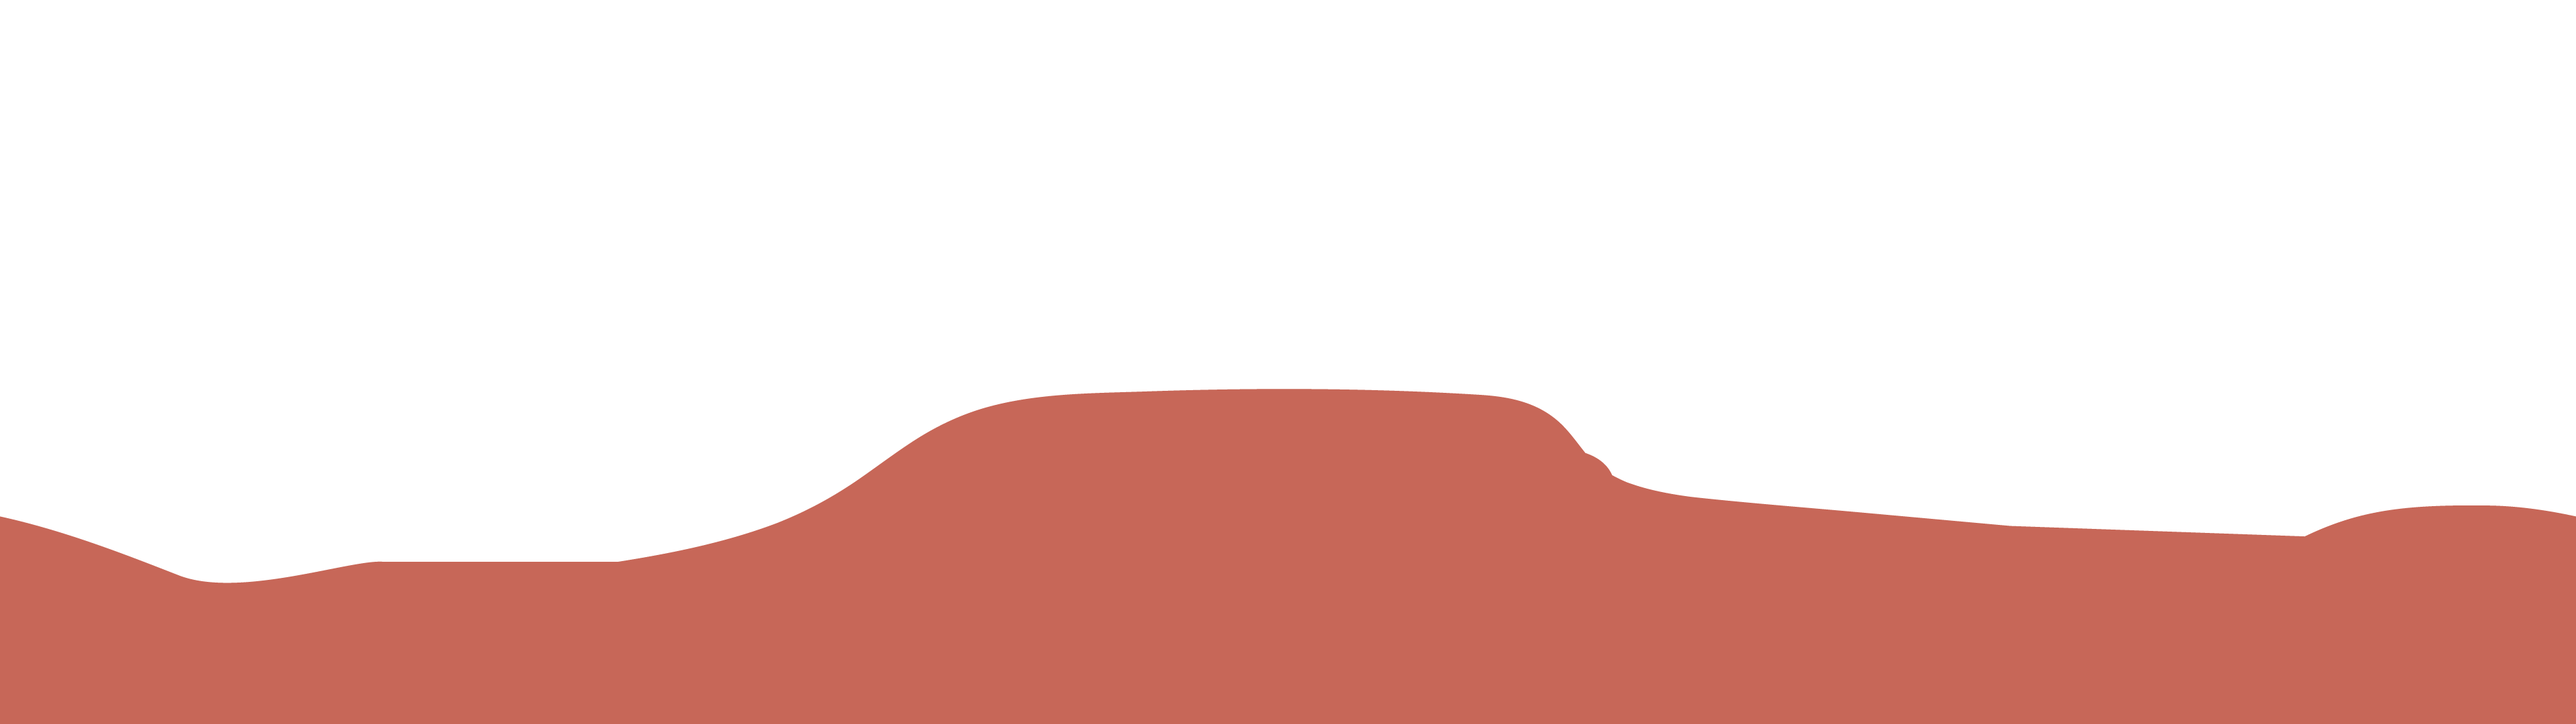
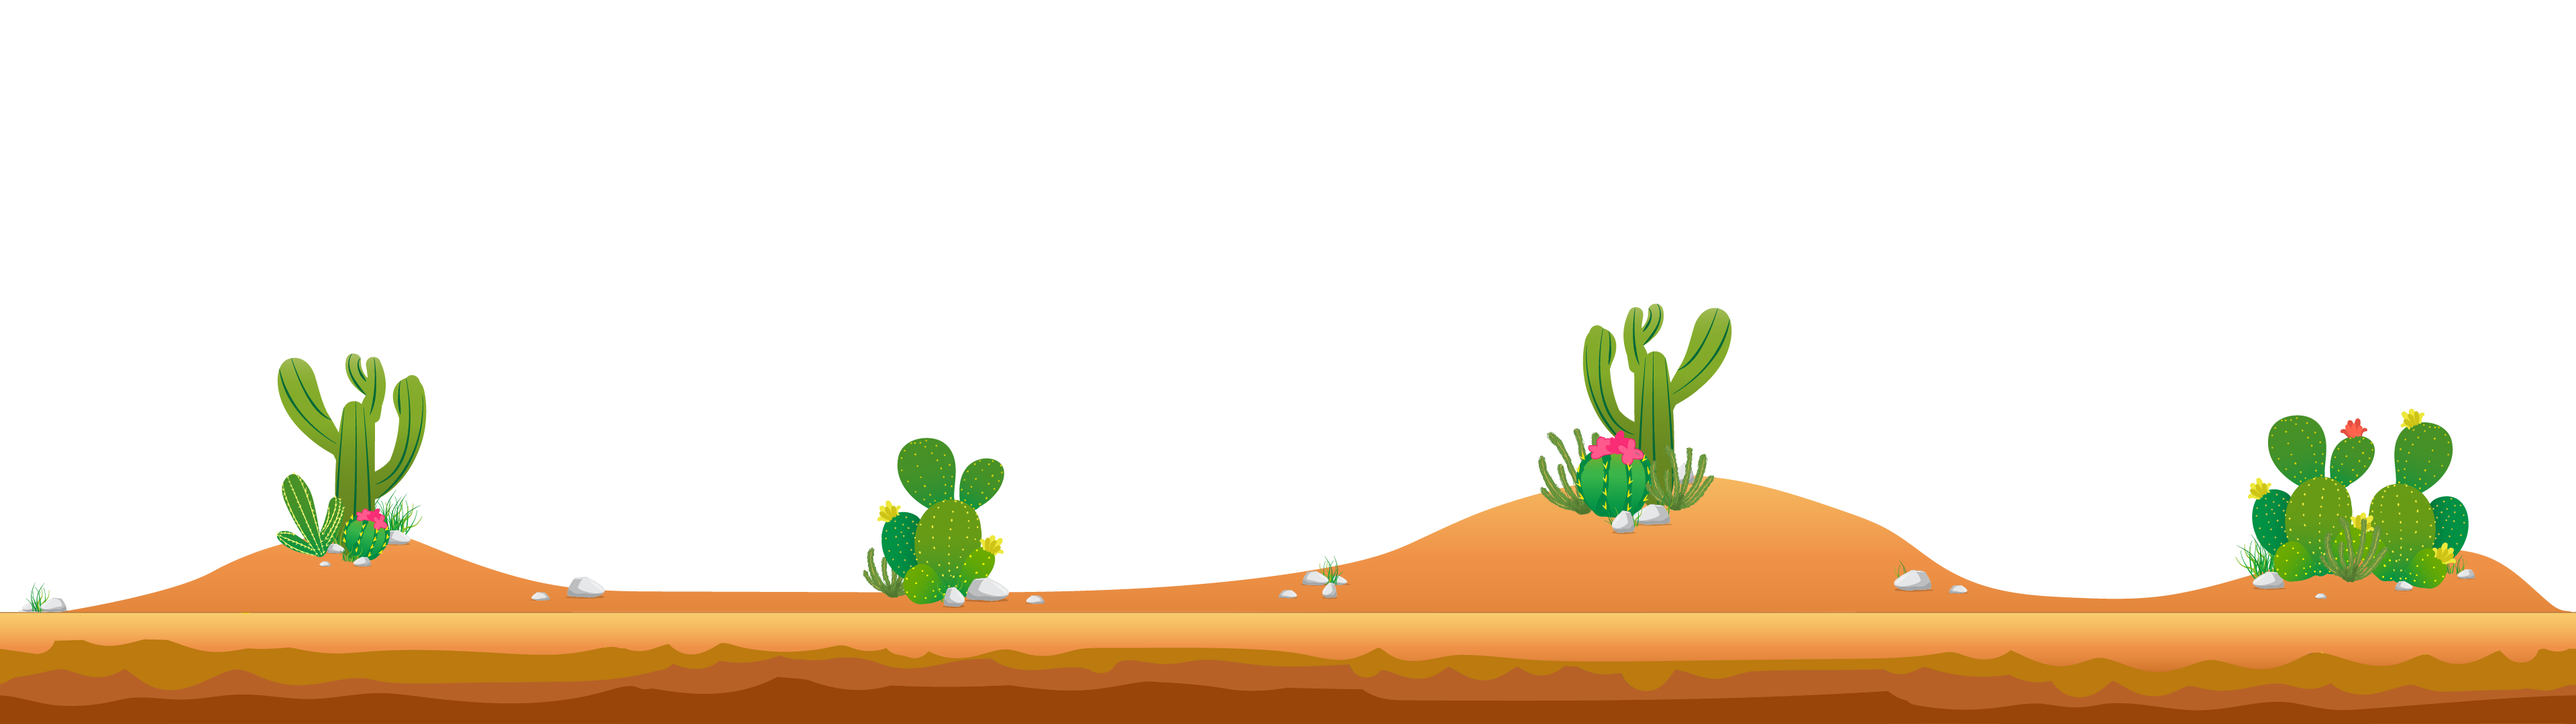
set backgrounds

diff --git a/js/game.js b/js/game.js
@@ -2,6 +2,7 @@ import { Draw } from "./draw.js"
 import { World } from "./../models/world.js"
 import { LEFT, RIGHT } from "./constants.js"
 import { Log } from "./log.js"
+import { Character } from "../models/character.js";
 
 export class Game extends Draw {
 	
@@ -12,6 +13,7 @@ export class Game extends Draw {
 		//Game.gameInstances++;
 		super();
 		this.level = new World();
+		//this.touchPadCont;
 		//this.startDraw;
 	}
 
@@ -47,7 +49,9 @@ export class Game extends Draw {
 
 	/**
 	 * Adds all necessary touch listener events for user interaction with the GamePad Elements
-	 * @param {*} pepe
+	 * @param {Character} pepe
+	 * @param {Game} game
+	 * 
 	 */
 	listenForTouches(pepe, game) {
 		document.getElementById("left-pad").addEventListener("touchstart", function (e) {
@@ -90,7 +94,7 @@ export class Game extends Draw {
 	/**
 	 * Adds all KeyDown and KeyUp Listener events for the user interaction with the Keyboard
 	 */
-	listenForKeys(pepe) {
+	listenForKeys(pepe, game) {
 		document.addEventListener("keydown", function (e) {
 			const k = e.key;
 			if (e.code == "Space" && !pepe.jumpInProgess) {

diff --git a/models/scene.js b/models/scene.js
@@ -2,15 +2,23 @@ import { Draw } from "./../js/draw.js"
 import { Background } from "./background.js"
 
 export class Scene extends Draw{
-	constructor(){
+	constructor(j){
 		super();
 		this.backgrounds = [];
-		for(let i = 0; i < 5; i++){
-			this.backgrounds.push(new Background());
+		for(let i = 0; i < 3; i++){
+			this.backgrounds.push(new Background(j * Draw.cnv?.width, 0, 1, 1, Draw.cnv?.width, Draw.cnv?.height, '#8A2BE2',`img/background${i}/bg${j}.png`));
 		}
 	}
 	
 	draw(){
 		Draw.drawElements(this.backgrounds);
+	}
+
+	moveLeft(movementSpeed){
+		Draw.moveElementsLeft(this.backgrounds, movementSpeed);
+	}
+	
+	moveRight(movementSpeed){
+		Draw.moveElementsRight(this.backgrounds, movementSpeed);
 	}
 }

diff --git a/js/draw.js b/js/draw.js
@@ -29,13 +29,15 @@ export class Draw {
 	
 	static moveElementsRight(elements, movementSpeed) {
 		elements.forEach(element => {
-			element.x -= movementSpeed * element.distance;
+			//element.x -= movementSpeed * element.distance;
+			element.moveRight(movementSpeed);
 		});
 	}
 	
 	static moveElementsLeft(elements, movementSpeed) {
 		elements.forEach(element => {
-			element.x += movementSpeed * element.distance;
+			// element.x += movementSpeed * element.distance;
+			element.moveLeft(movementSpeed);
 		});
 	}
 	

diff --git a/models/model.js b/models/model.js
@@ -14,14 +14,18 @@ export class Model extends Draw{
    }
 	
 	draw(){
-		Draw.drawModelRect(this);
+		if(this.currentImg && this.currentImg.complete){
+			Draw.ctx.drawImage(this.currentImg, this.x, this.y, this.width, this.height);
+		}
+		else
+			Draw.drawModelRect(this);
 	}
 	
-	moveLeft(){
-		
+	moveLeft(movementSpeed){
+		this.x += movementSpeed * this.distance;
 	}
 	
-	moveRight(){
-		
+	moveRight(movementSpeed){
+		this.x -= movementSpeed * this.distance;
 	}
 }

diff --git a/models/background.js b/models/background.js
@@ -1,7 +1,10 @@
 import { Model } from "./model.js"
 
 export class Background extends Model{
-	constructor(xPos, yPos, distance, scale, width, height){
-		super(xPos, yPos, distance, scale, width, height);
+	constructor(xPos, yPos, distance, scale, width, height, color, imgSrc){
+		super(xPos, yPos, distance, scale, width, height, color);
+		this.currentImg =  new Image();
+		this.currentImg.src = imgSrc;
+		//console.log(this.img);
 	}
 }

diff --git a/models/world.js b/models/world.js
@@ -9,8 +9,8 @@ export class World extends Draw{
 		super();
 		this.pepe = new Character(10, Draw.GROUND_POS - 100, 1, 1, 150, 100, "blue");
 		this.scenes = [];
-		for (let i = 0; i < 5; i++){
-			this.scenes.push(new Scene());
+		for (let i = 0; i < 2; i++){
+			this.scenes.push(new Scene(i));
 		}
 		this.enemies = [];
 		for (let i = 0; i < 5; i++){

diff --git a/js/scripts.js b/js/scripts.js
@@ -8,6 +8,6 @@ window.addEventListener("load", ()=>{
 	Draw.init();
 	const newGame = new Game();
 	newGame.draw();
-	newGame.listenForTouches(newGame.level.pepe, newGame);
-	//newGame.listenForKeys(newGame.level.pepe);
+	//newGame.listenForTouches(newGame.level.pepe, newGame);
+	newGame.listenForKeys(newGame.level.pepe, newGame);
 });

diff --git a/index.html b/index.html
@@ -4,7 +4,6 @@
 	<meta name='viewport' content='width=device-width, initial-scale=1'>
     <link href="css/styles.css" rel="stylesheet">
 	  <script type="module" src="js/scripts.js"></script>
-	  <!-- <script src="js/game.js"></script> -->
   </head>
   <body>
 	  <div id="load">Loading...</div>

diff --git a/js/assets.js b/js/assets.js
@@ -1,0 +1,5 @@
+const backgrounds = {
+    bg1: [],
+    bg2: [],
+    bg3: []
+};
